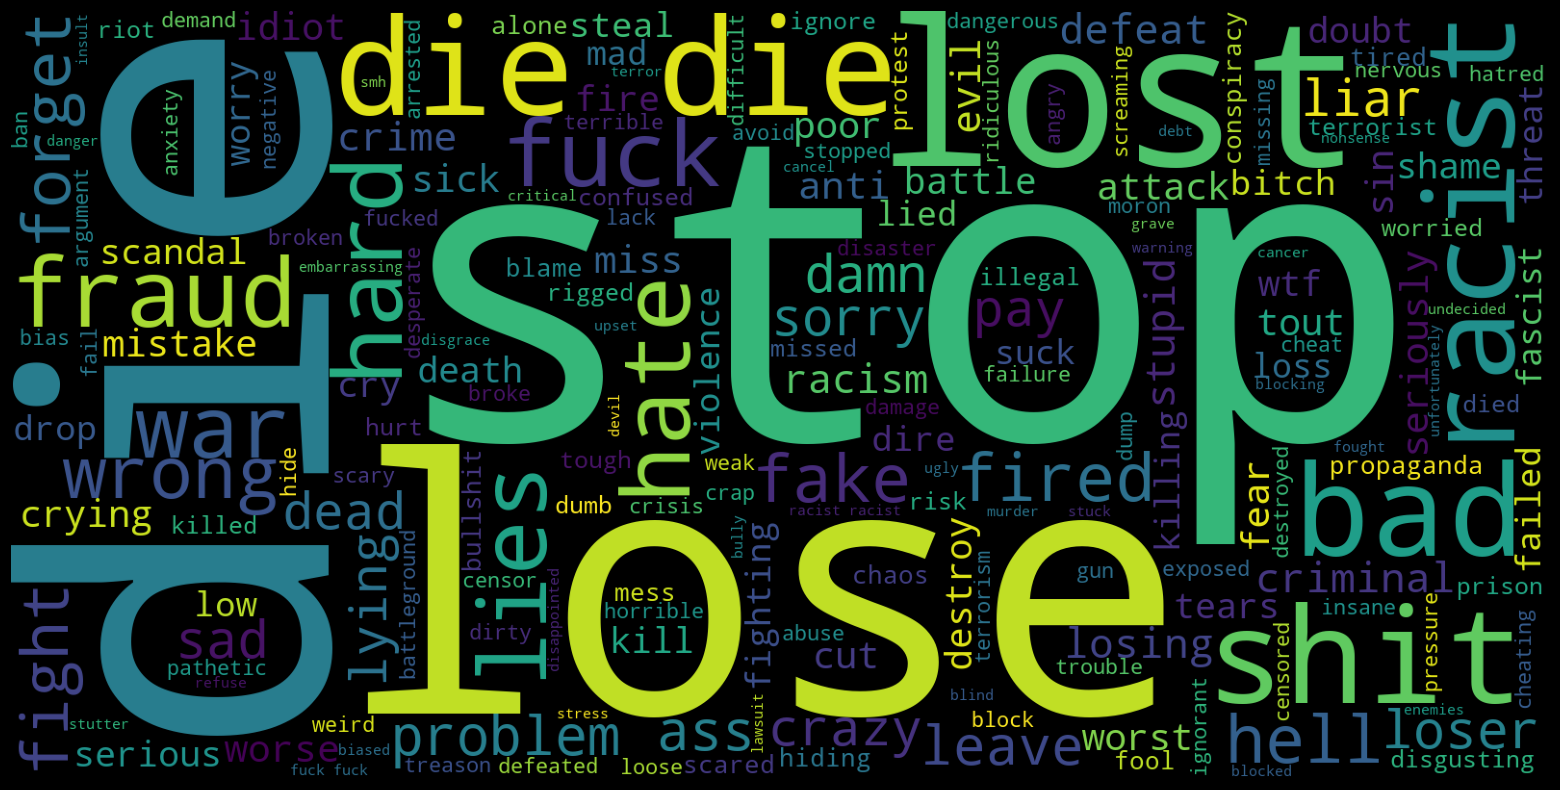
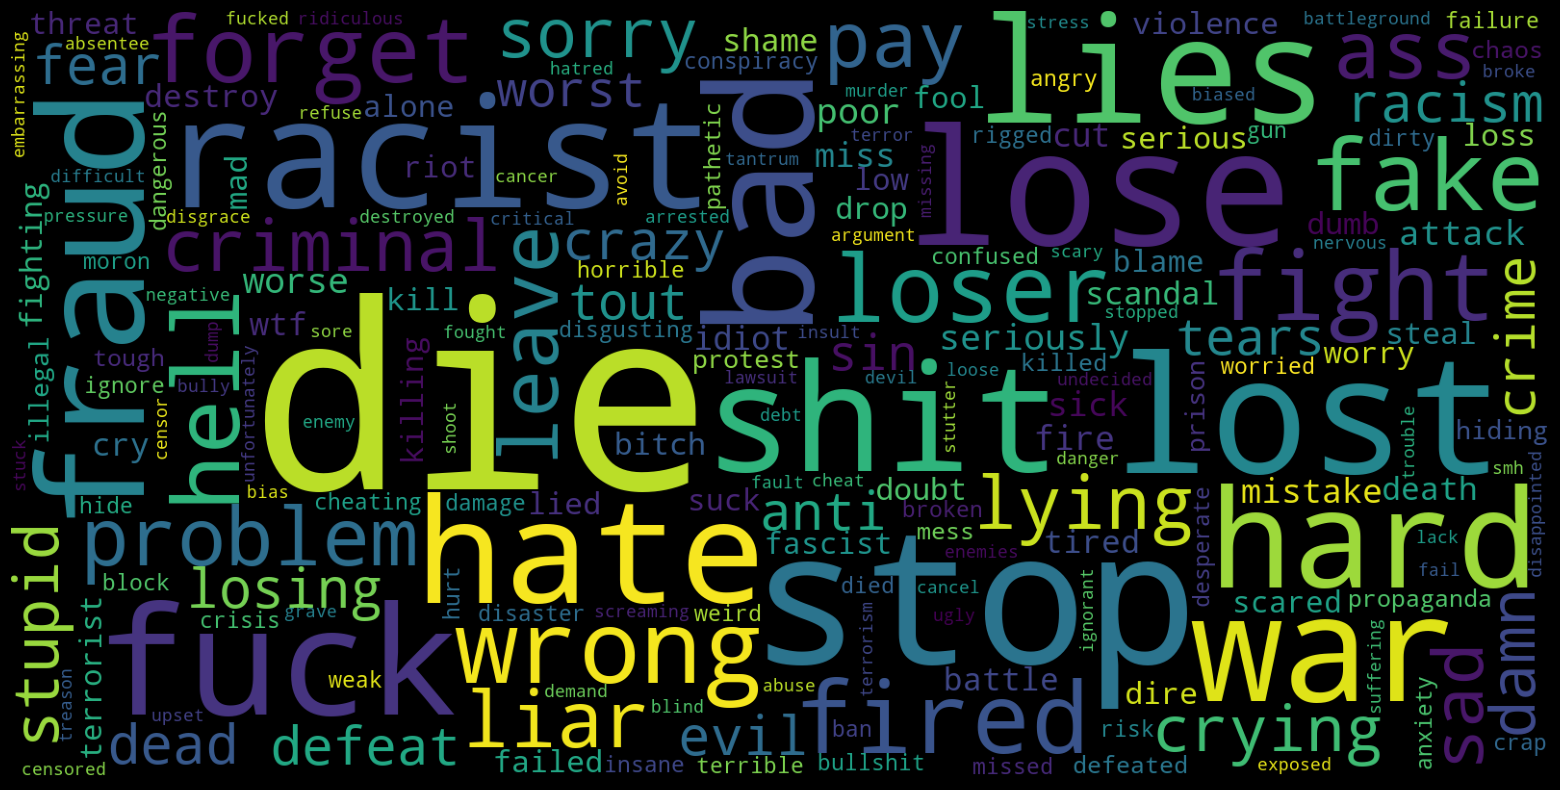
fixed duplication issue on wordclouds

diff --git a/read_csv.py b/read_csv.py
@@ -7,7 +7,7 @@ from vaderSentiment.vaderSentiment import SentimentIntensityAnalyzer
 
 def read_csv(lines):
     data = {}
-    file_path = 'hashtag_joebiden.csv'
+    file_path = 'hashtag_donaldtrump.csv'
     with open(file_path, encoding='utf-8') as csv_file:
         reader = csv.reader(csv_file, delimiter=',')
         print(csv_file)
@@ -113,7 +113,7 @@ def remove_null_locations(data):
 
 def write_json(cleaned_data):
     try:
-        with open(f'tweets/biden_cleaned_tweets.json', 'w') as json_file:
+        with open(f'tweets/trump_cleaned_tweets.json', 'w') as json_file:
             json.dump(cleaned_data, json_file)
     except:
         print("Could not write to JSON file")
@@ -171,7 +171,7 @@ if __name__ == "__main__":
     trump_tweets = 971158
     biden_tweets = 777079
     
-    data = read_csv(biden_tweets)
+    data = read_csv(trump_tweets)
     # cleaned_data = remove_null_locations(data)
     write_json(data)
 

diff --git a/sentiment.py b/sentiment.py
@@ -9,7 +9,7 @@ import matplotlib.pyplot as plt
 # C:\Users\Omar\AppData\Local\Programs\Python\Python38\Lib\site-packages\vaderSentiment
 
 def generate_word_cloud(word_list, filename):
-    wc = wordcloud.WordCloud(width=1600, height=800)
+    wc = wordcloud.WordCloud(width=1600, height=800, collocations = False)
     wc=wc.generate(" ".join(word_list).lower())
     plt.figure(figsize=(20,10), facecolor='k')
     plt.imshow(wc)
